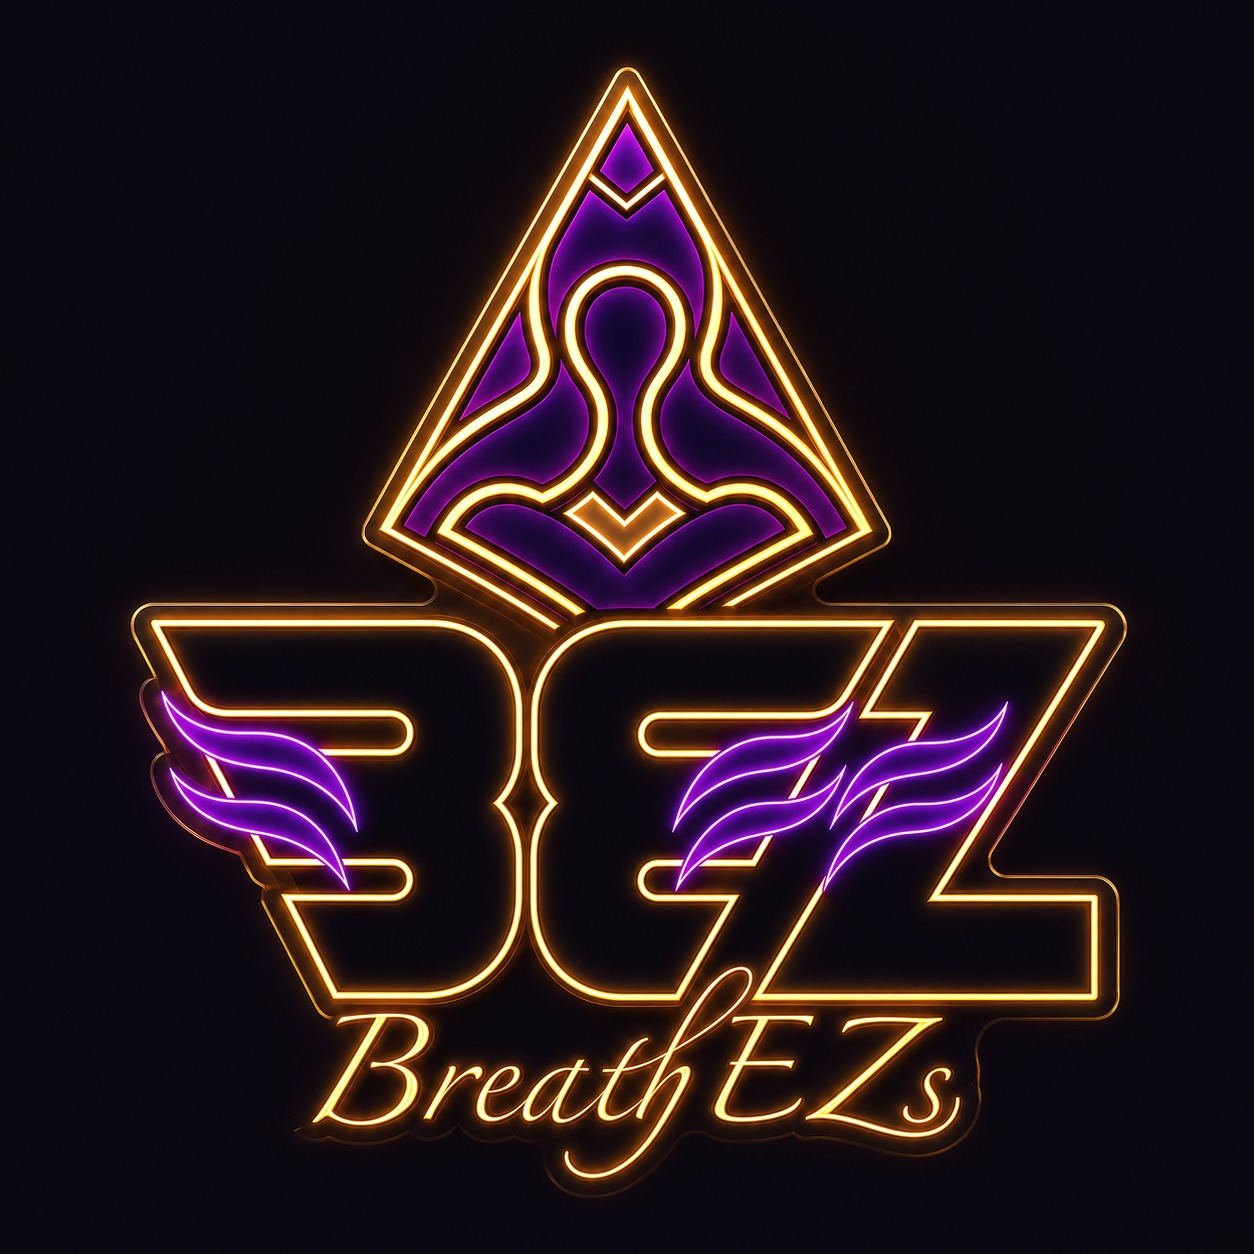
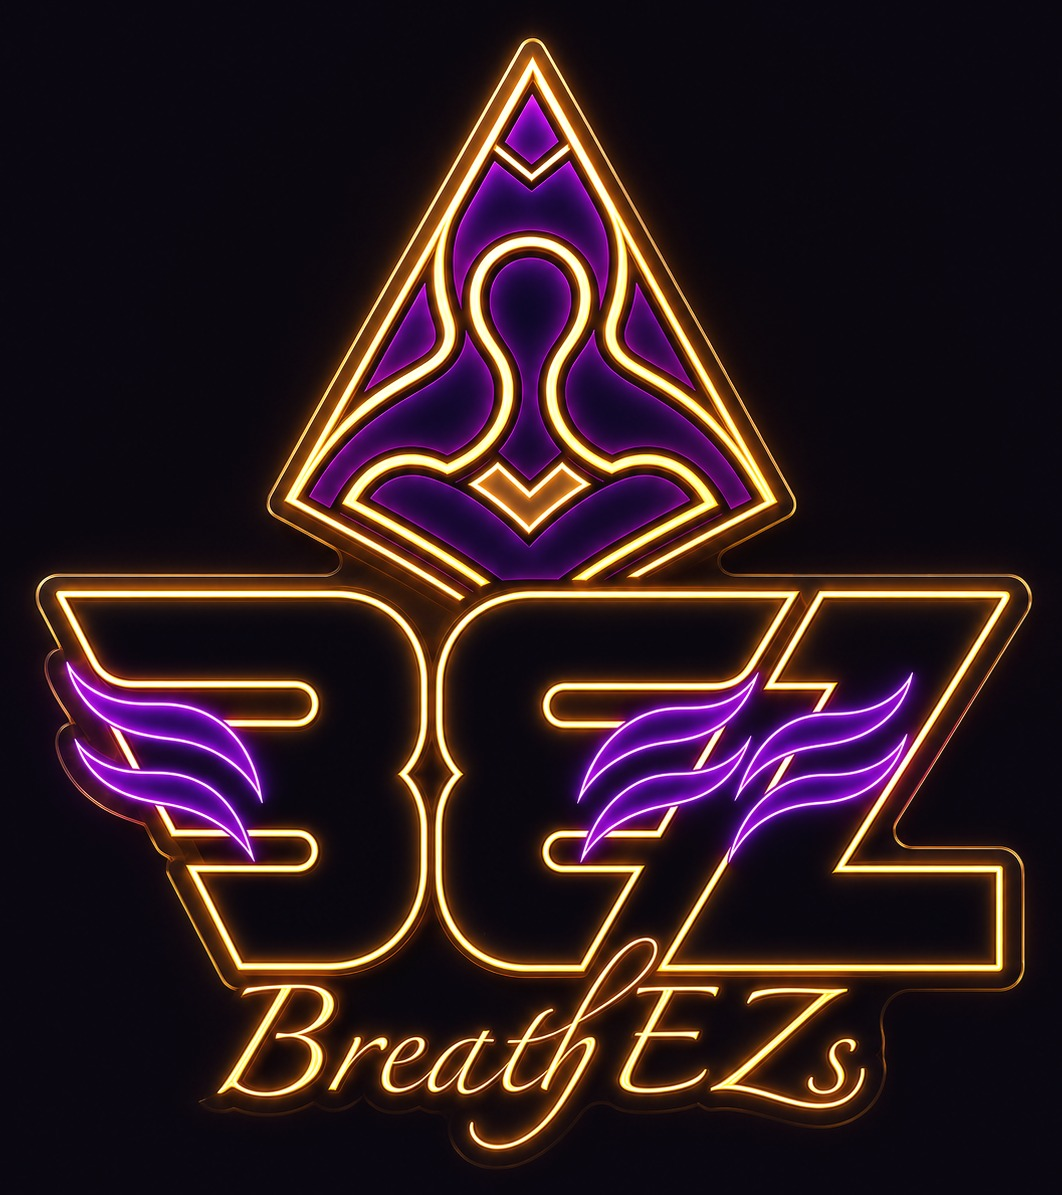
Remove dead margins around the hero sign
Crop the ~128px of empty background baked into the render so the sign
fills its zone without gaps, tighten the panel and inset, and adjust
mobile hero spacing for the slightly taller crop.

Claude-Session: https://claude.ai/code/session_01A2DdCsVA4Qx1DSWeaC92nh

diff --git a/index.html b/index.html
@@ -110,7 +110,7 @@ h2.title .accent{color:var(--purple)}
   .hero{padding:0 0 60px}
   .hero::before{background:#0a0810 url(images/bez-neon.jpg) center top/contain no-repeat;filter:none}
   .hero::after{background:linear-gradient(180deg,rgba(9,7,14,0) 30%,rgba(9,7,14,.62) 52%,rgba(9,7,14,.94) 72%,#0a0810 88%)}
-  .hero .container{padding-top:min(106vw,530px)}
+  .hero .container{padding-top:min(115vw,560px)}
   .hero-inner{max-width:100%;text-align:center}
   .hero h1{font-size:clamp(2rem,8.4vw,2.9rem)}
   .hero p.lead{font-size:1.06rem;margin-left:auto;margin-right:auto}
